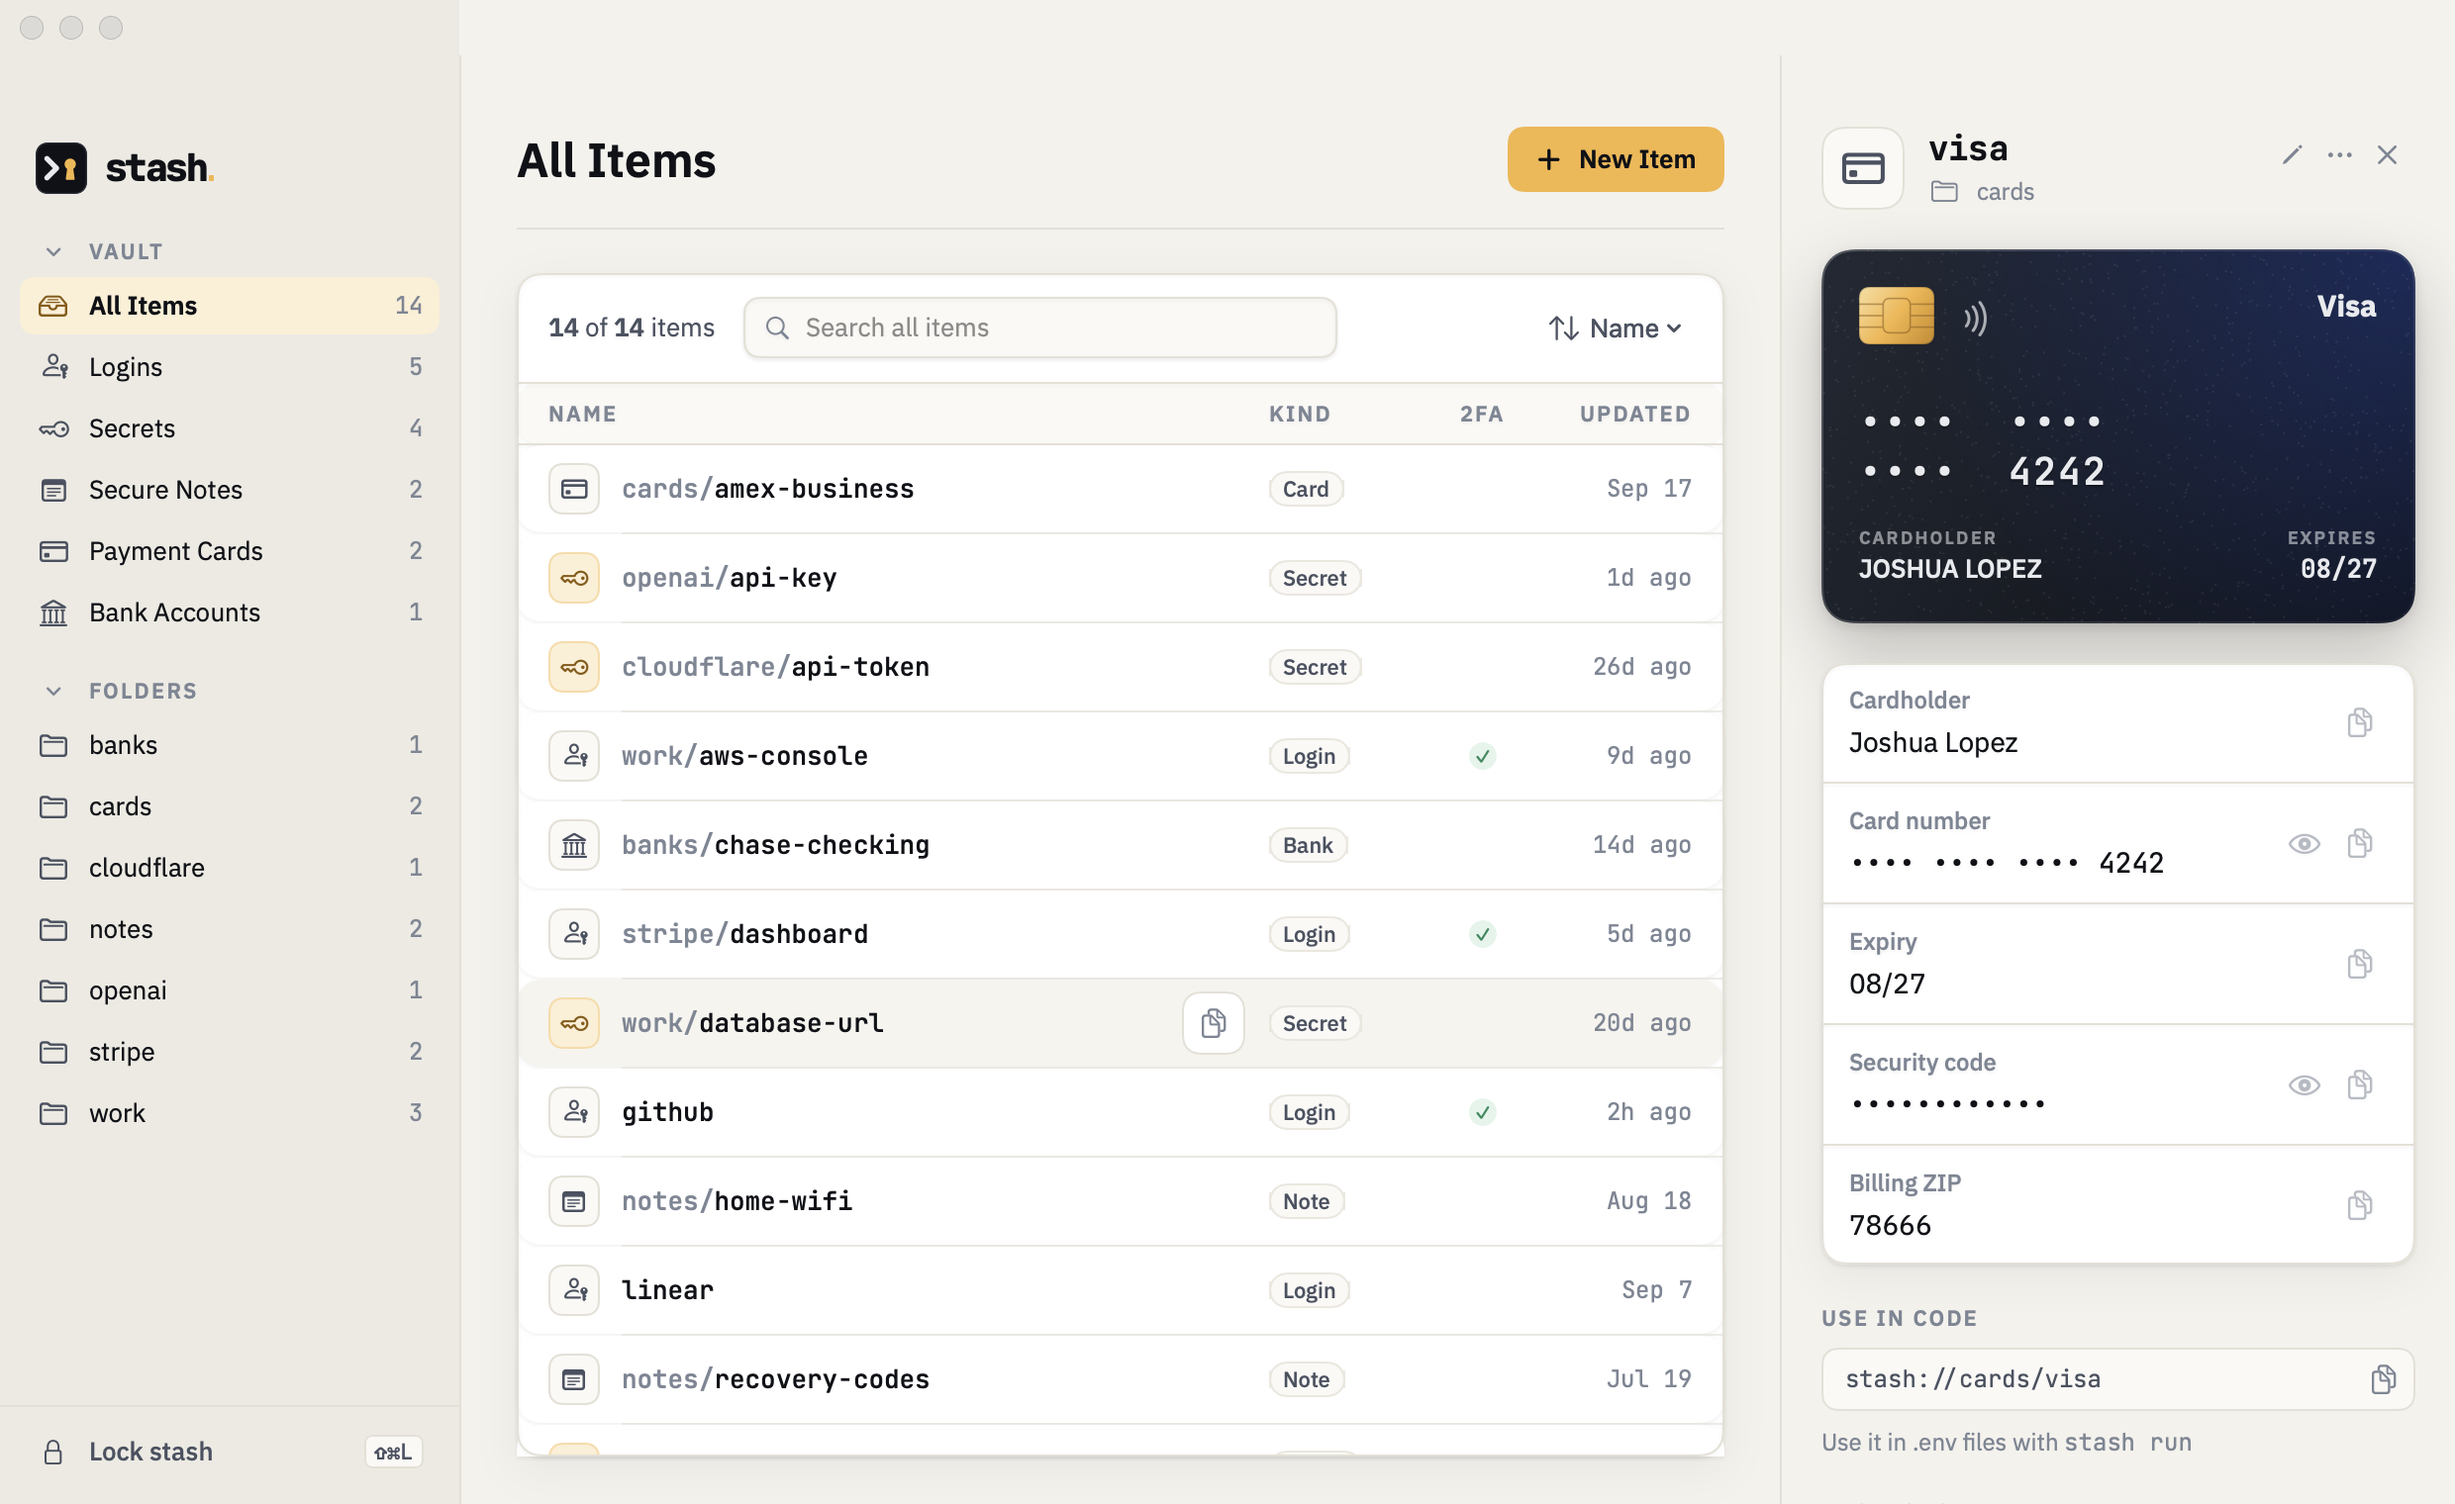
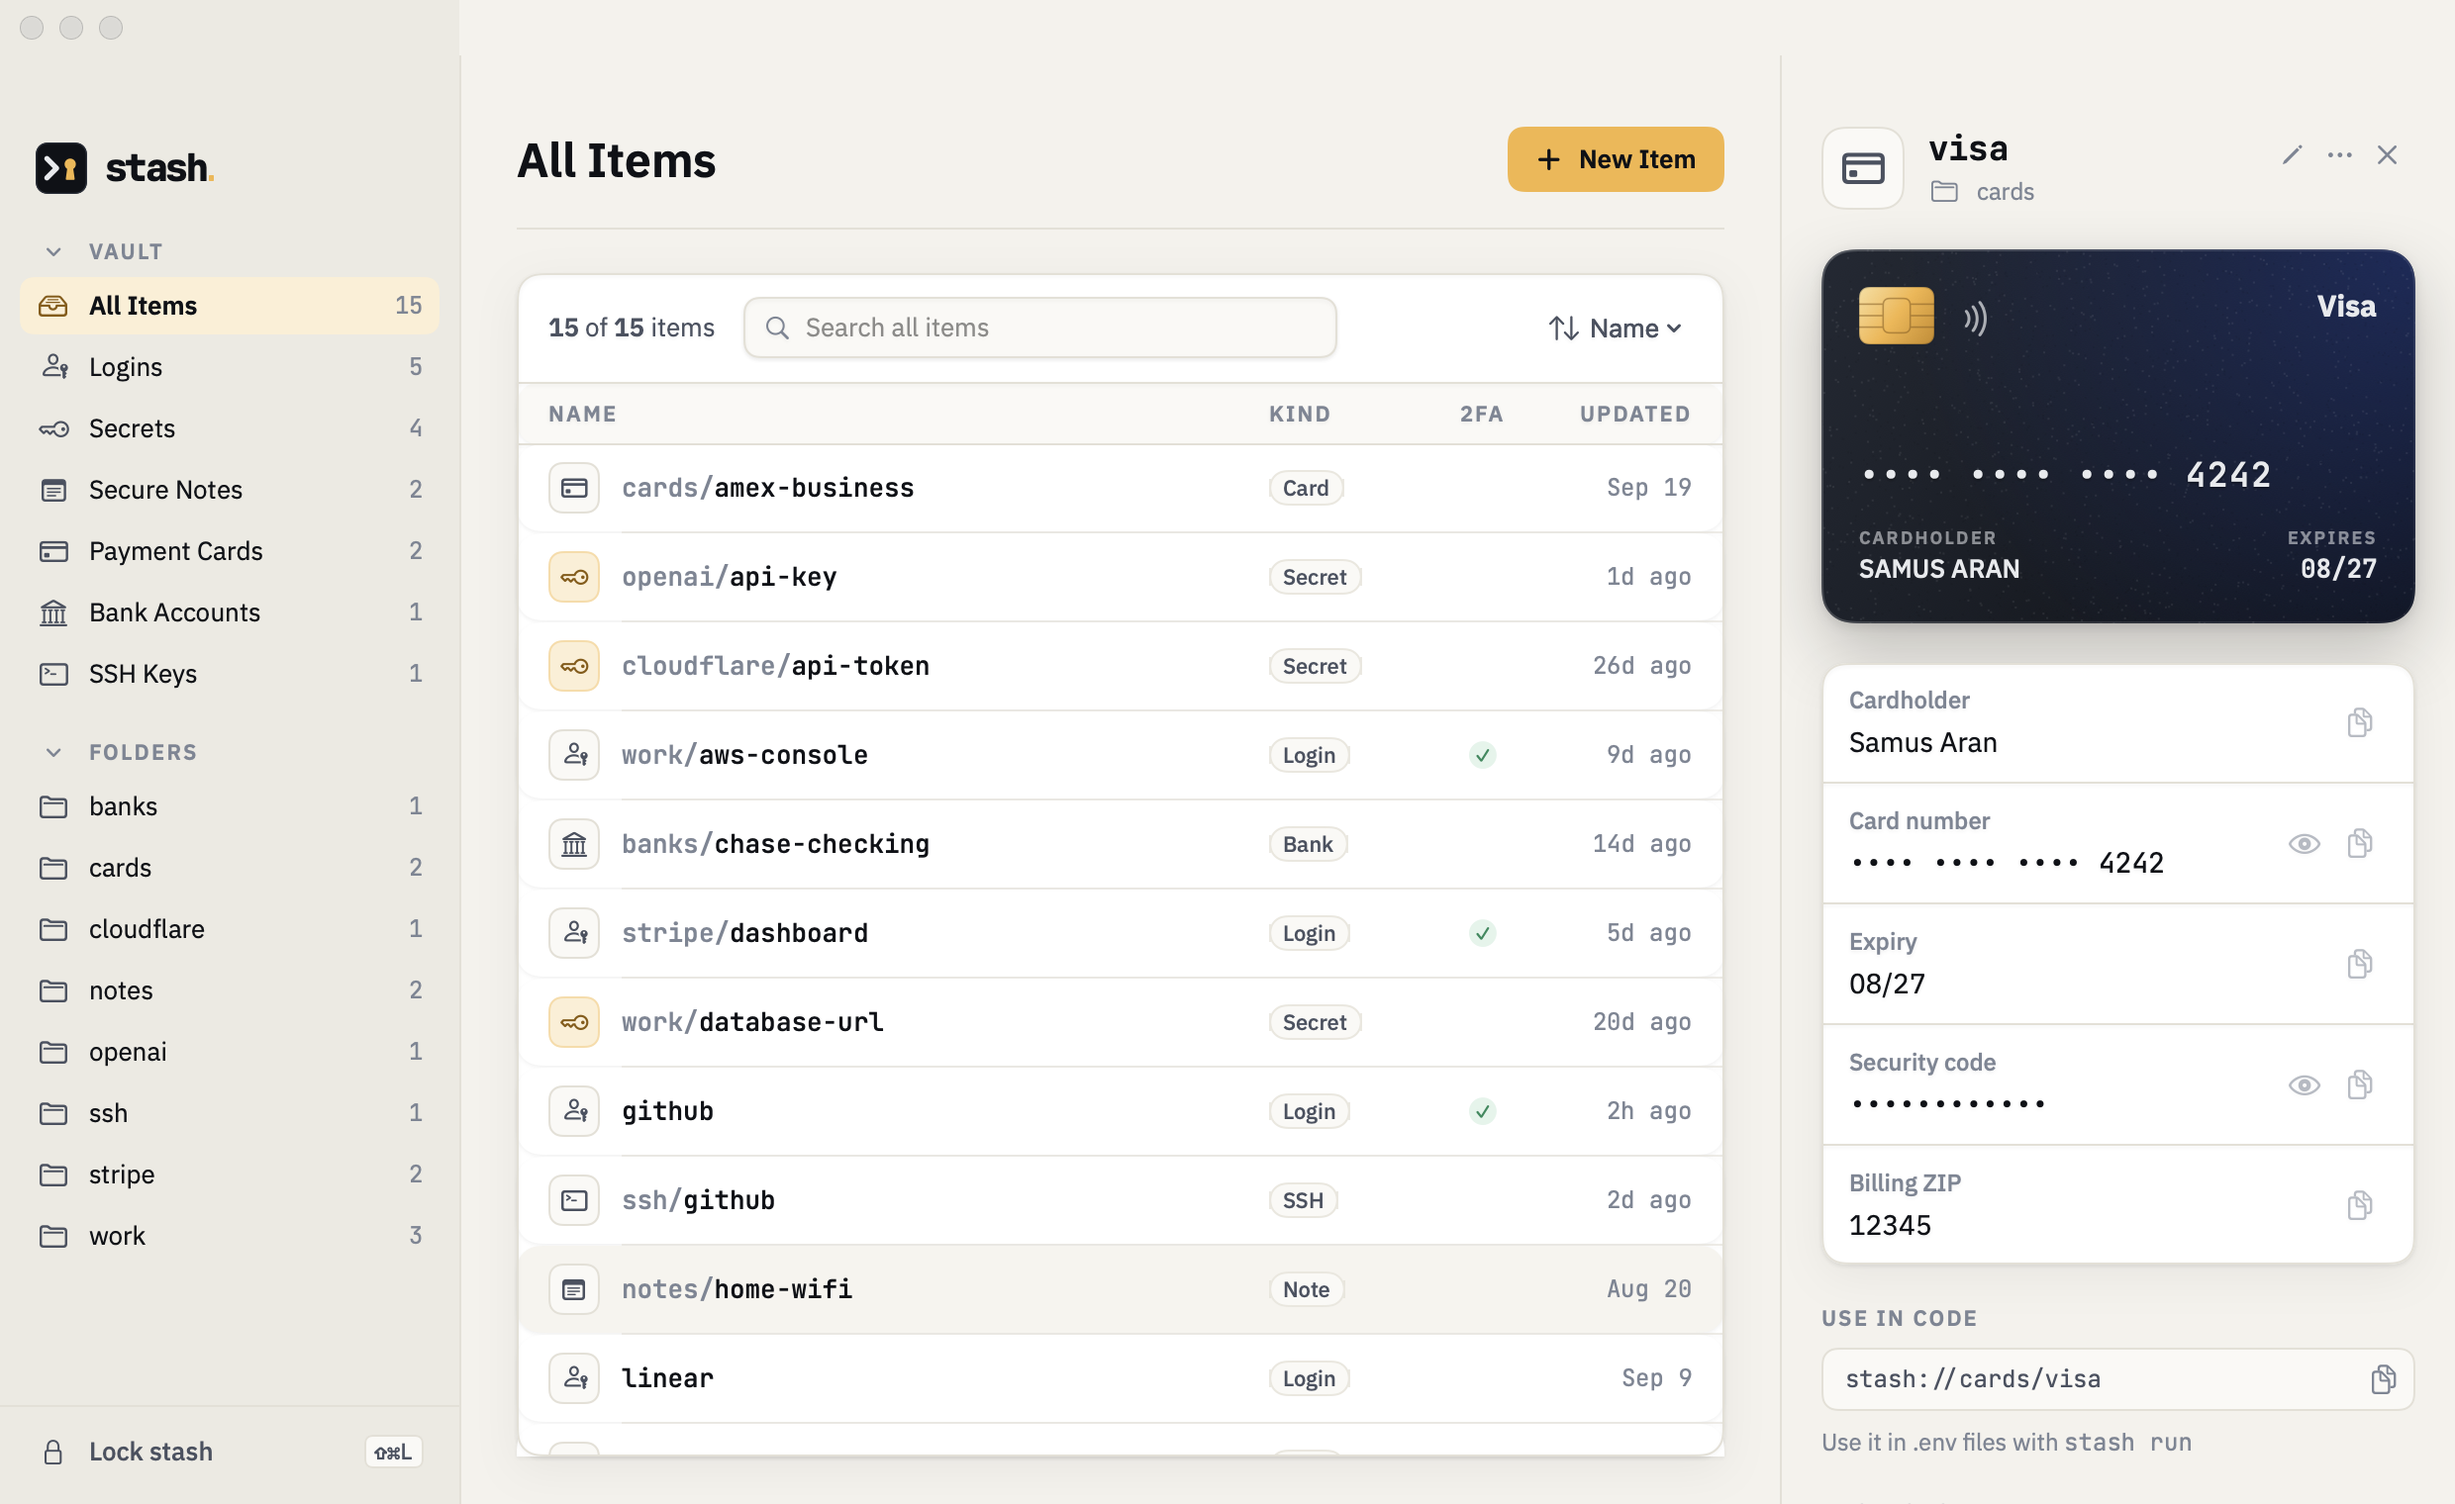
Use a fictional cardholder and ZIP in the demo data
- The app's sample data (snapshots and previews) names Samus Aran as cardholder and account holder, with billing ZIP 12345
- Regenerate docs/screenshots/card.png from it

diff --git a/macos/StashApp/Sources/Stash/AppModel.swift b/macos/StashApp/Sources/Stash/AppModel.swift
@@ -339,11 +339,11 @@ final class MockBackend: VaultBackend {
             fields = []
         case .card:
             fields = [
-                .init(label: "cardholder", kind: .text, value: "Joshua Lopez"),
+                .init(label: "cardholder", kind: .text, value: "Samus Aran"),
                 .init(label: "number", kind: .concealed, value: nil),
                 .init(label: "expiry", kind: .text, value: "08/27"),
                 .init(label: "cvv", kind: .concealed, value: nil),
-                .init(label: "billing zip", kind: .text, value: "78666"),
+                .init(label: "billing zip", kind: .text, value: "12345"),
             ]
         case .ssh:
             fields = [
@@ -355,7 +355,7 @@ final class MockBackend: VaultBackend {
         case .bank:
             fields = [
                 .init(label: "bank", kind: .text, value: "Chase"),
-                .init(label: "account holder", kind: .text, value: "Joshua Lopez"),
+                .init(label: "account holder", kind: .text, value: "Samus Aran"),
                 .init(label: "account type", kind: .text, value: "checking"),
                 .init(label: "routing number", kind: .text, value: "021000021"),
                 .init(label: "account number", kind: .concealed, value: nil),
